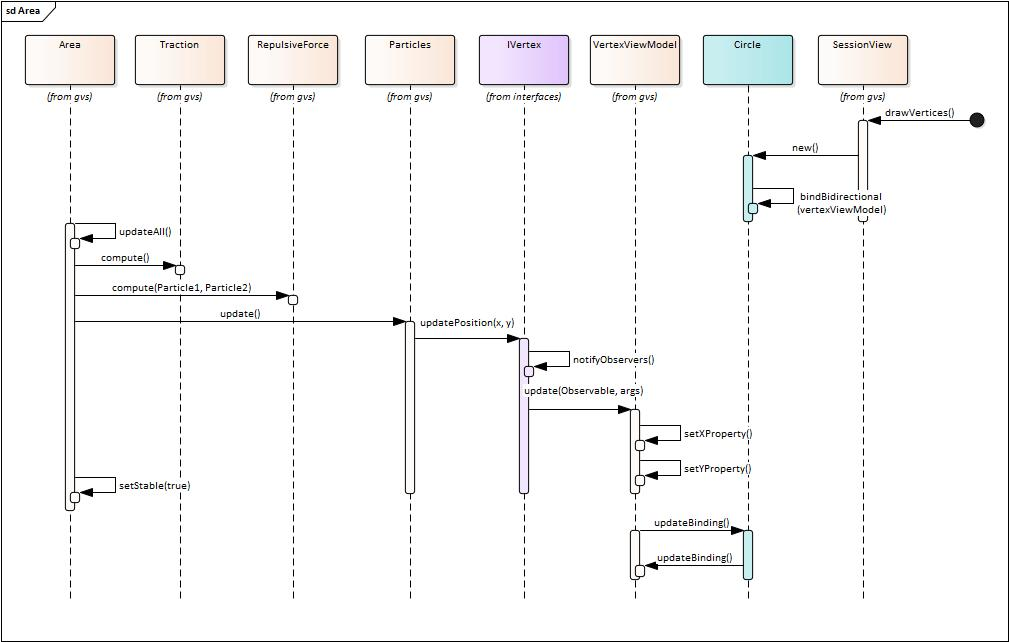
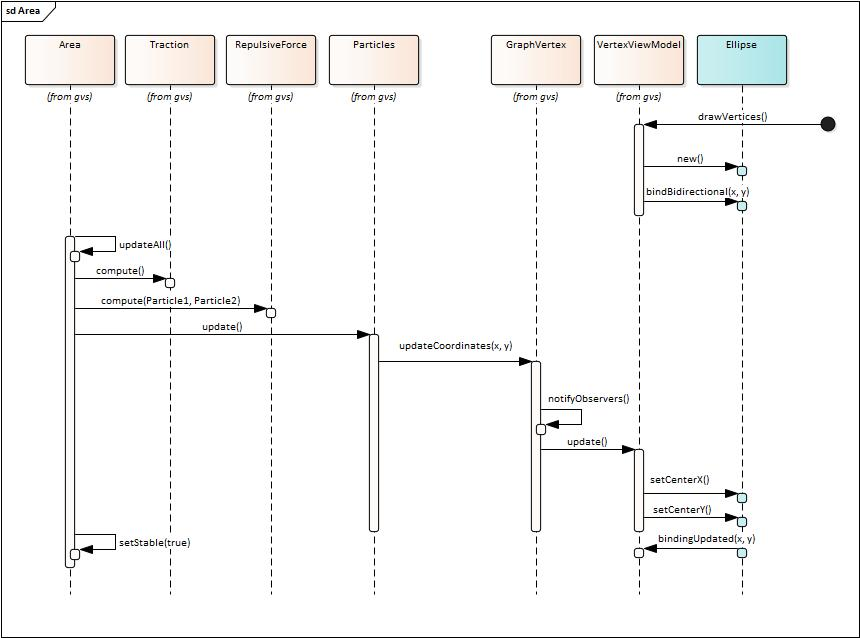
169: update graph layouter, sequence diagrams

Changed region(s): [[0.0, 0.0, 1.0, 1.0], [0.3628, 0.4765, 0.8767, 0.9232], [0.0605, 0.3276, 0.3326, 0.8934]]

diff --git a/GVS_Documentation.tex b/GVS_Documentation.tex
@@ -502,20 +502,20 @@ eprint=false
 	\subsection{Screens}
 	%TODO add screens
 	
-	\section{Refactoring Layout Engine}
+	\section{Refactoring Graph Layouter}
 	
-	\subsection{LayoutController} \label{ssec:layoutcontroller}
-	Der \textit{LayoutController} steuert die Berechnung der Koordinaten durch die Physik Engine. Sobald ein Graph gelayouted werden muss, wird ein \textit{AreaTicker} Thread gestartet, der in einem bestimmten Interval das Anzeigen der neuen Koordinaten veranlasst. Es läuft immer nur genau ein \textit{AreaTicker} Thread. Sobald sich die \textit{Particle} in der \textit{Area} stabilisiert haben, wird der \textit{AreaTicker} Thread terminiert. 
+	\subsection{GraphLayouter} \label{ssec:layoutcontroller}
+	Für das Layouting der Graphen wurde ein Force-Directed Drawing Algorithm verwendet. Dieser wurde mehrheitlich von GVS 1.0 übernommen. Der Algorithmus ordnet die Vertices so an, dass es möglichst wenig überschneidende Kanten gibt. Dazu wird für jeden Vertex ein \textit{Particle} erstellt, welcher während der dynamischen Plazierung auf der \textit{Area} bewegt wird. Zu Beginn des Layout Prozess wird ein Particle pseudo-zufällig platziert. GVS 2.0 unterstützt zwei Varianten von pseudo-zufällig: Je nach gewählter Option wird ein Particle immer gleich zufällig plaziert (Seeded Random) oder die Koordinaten werden durchgehend zufällig platziert. Sobald ein Graph gelayouted werden muss, wird ein \textit{AreaTicker} Thread gestartet, der in einem bestimmten Interval die Darstellung der neuen Koordinaten im UI veranlasst. Es läuft immer nur genau ein \textit{AreaTicker} Thread. Sobald sich die \textit{Particle} in der \textit{Area} stabilisiert haben, wird der \textit{AreaTicker} Thread terminiert. Das Sequenzdiagramm \ref{fig:sequencegraphlayouter} zeigt den grundlegenden Ablauf beim Starten des Graph Layout Prozess.
 	
 	\begin{figure}[h!]
 		\centering
-		\includegraphics[width=0.7\linewidth]{assets/images/sequence_layoutcontroller}
-		\caption{Sequenzdiagramm LayoutController}
-		\label{fig:sequencelayoutcontroller}
+		\includegraphics[width=0.5\linewidth]{assets/images/sequence_graph_layouter}
+		\caption{Sequenzdiagramm Graph Layouter}
+		\label{fig:sequencegraphlayouter}
 	\end{figure}
 	
 	\subsection{Area} \label{ssec:area}
-	Die \textit{Area} dient als Container während dem dynamischen Layoutprozess. Sie beinhaltet mehrere \textit{Particle}s die von physischen Kräften bewegt werden. (\textit{Traction}s und \textit{RepulsiveForce}s) Ein \textit{Particle} entspricht einem Knote des Graphen oder Trees. Die Positionen der \textit{Particles} werden fortlaufend berechnet. Sobald ein Tick Event passiert werden die berechneten Koordinaten des Particles in den Business Vertex kopiert. Über eine Observer Beziehung wird das \textit{VertexViewModel} im Presentation Layer über die neuen Koordinaten notifziert. Dessen \gls{javafx} Properties sind über ein bidirektionales Binding mit dem UI \textit{Circle} verbunden. Dieser aktualisiert dann automatisch und visualisiert die Änderungen auf dem UI.
+	Die \textit{Area} dient als Container während dem dynamischen Layout Prozess. Sie beinhaltet mehrere \textit{Particle}s die von physischen Kräften bewegt werden. (\textit{Traction}s und \textit{RepulsiveForce}s) Ein \textit{Particle} repräsentiert eine Vertex. Die Positionen der \textit{Particles} werden fortlaufend berechnet. Sobald ein Tick Event passiert, werden die aktuellen Koordinaten des Particles in den \textit{GraphVertex} im Business Layer kopiert. Über eine Observer Beziehung wird das \textit{VertexViewModel} im Presentation Layer über die neuen Koordinaten notifziert. Dessen X/Y Properties sind über ein bidirektionales Binding mit dem UI Element (z.B \textit{Ellipse}) verbunden. Die neuen Koordinaten werden auf der Oberfläche dargestellt 	. 
 	
 	\begin{figure}[h!]
 		\centering
